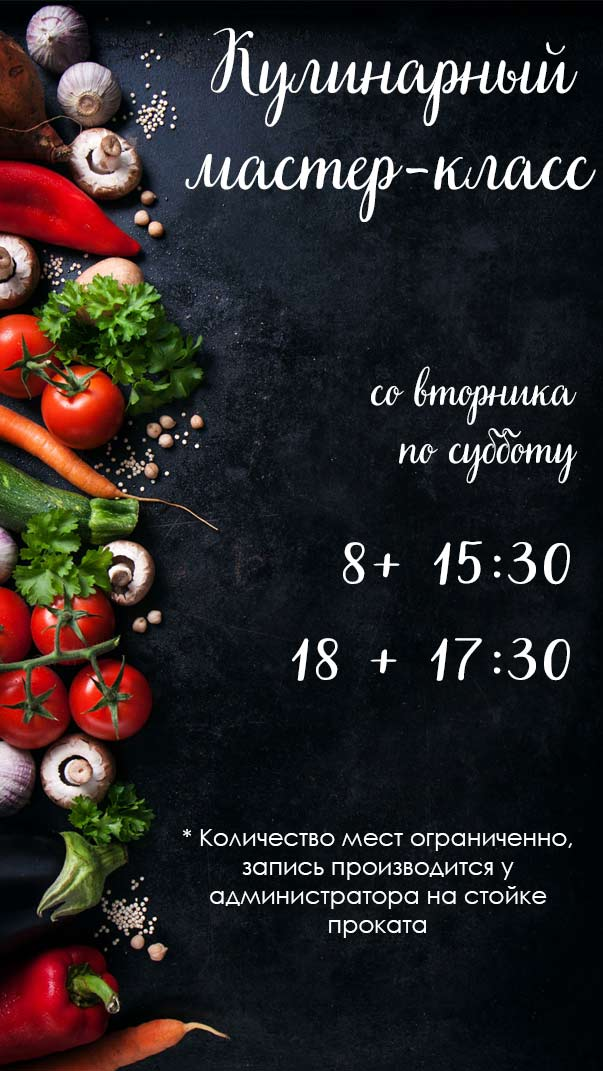
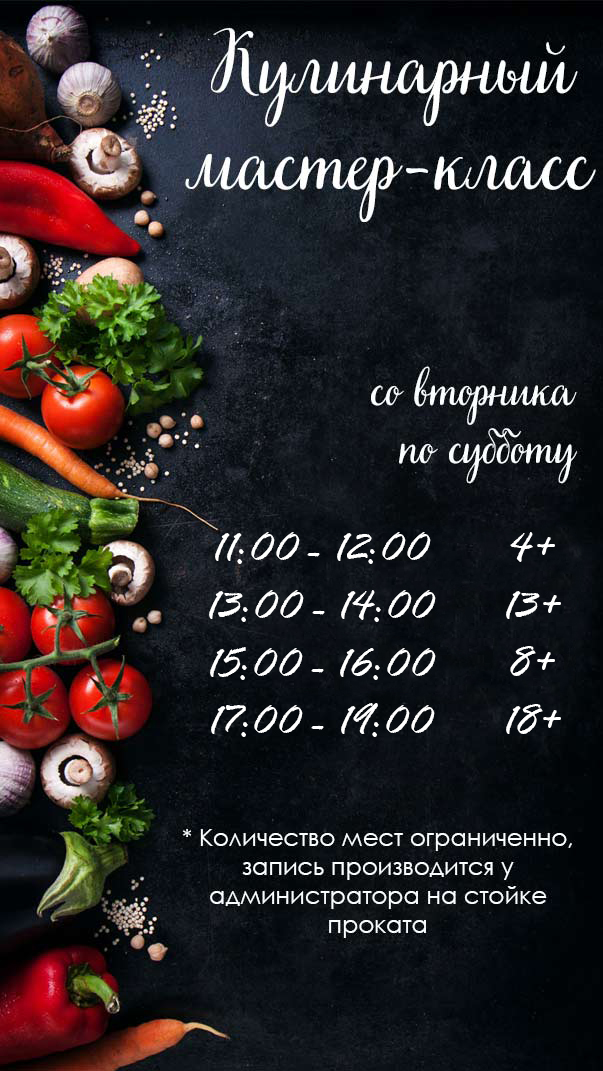
-изменил клавиатуру расписаний и мастер-классов; -изменил расписание кулинарной мастерской;

Changed region(s): [[0.3284, 0.493, 0.806, 0.7087], [0.8358, 0.493, 0.9552, 0.7087], [0.3582, 0.493, 0.5075, 0.5238]]

diff --git a/scripts/keyboards.py b/scripts/keyboards.py
@@ -3,7 +3,7 @@ from telebot import types
 
 def main_keyboard():
     keyboard = types.ReplyKeyboardMarkup(True, True)
-    keyboard.row('🗓 Расписание мероприятий')
+    keyboard.row('🗓 Расписание/Мастер-классы')
     keyboard.row('🍽 Питание', '🔔 Услуги')
     keyboard.row('❇ Акции и скидки', '🌐 Связь с нами')
     return keyboard

diff --git a/bot.py b/bot.py
@@ -81,7 +81,7 @@ def inline_key(message: Message):
         )
 
     # РАСПИСАНИЕ
-    elif message.text == '🗓 Расписание мероприятий':
+    elif message.text == '🗓 Расписание/Мастер-классы':
         bot.send_message(
             message.chat.id,
             text='Выберите расписание: ',
